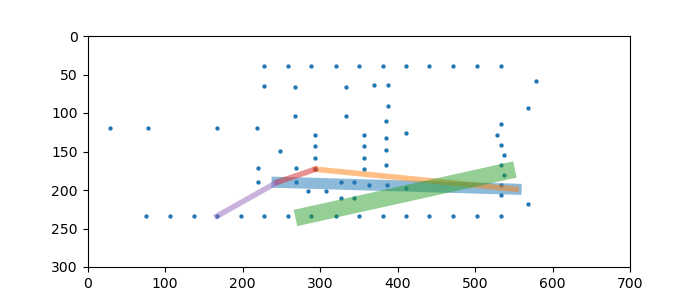
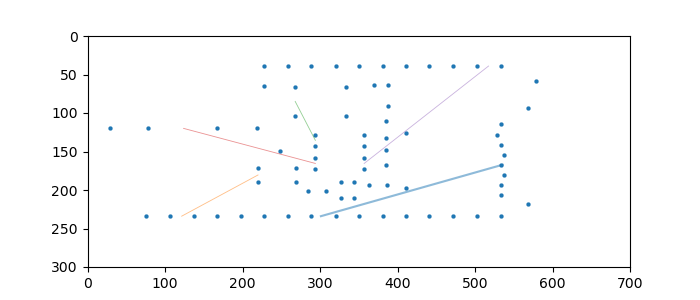
over:multipin_net

diff --git a/BusAllocator.py b/BusAllocator.py
@@ -18,8 +18,6 @@ class BusAllocator:
         self.NetList = grid_parameter.netList
         self.FootprintList = grid_parameter.footprint_list
         self.parameters = grid_parameter
-#        self.clearance = clearance
-#        self.trackwidth = trackwidth
         self.BusList = []
 
         
@@ -55,35 +53,52 @@ class BusAllocator:
         """
 
         MFPList=self.GenerateMultipadFPList()
-#        StartBusPins = []
-#        EndBusPins = []
-#        BusWidth = 0
         BusID = 0
+        with open('debug.txt', 'w') as file:
+            file.write('')
 
         for i in range(len(MFPList)):
             PadNet1 = self.NetsInFP(MFPList[i])
             for j in range(len(MFPList)-1-i):
                 StartBusPins_temp = []
                 EndBusPins_temp = []
+                StartID_temp = []
+                EndID_temp = []
                 BusWidth_temp = 0
                 count = 0
 
                 PadNet2 = self.NetsInFP(MFPList[i+j+1])
-#                for pad in MFPList[i].pads:
-#                    if pad.net in
 
-                for m in range(len(PadNet1) - 1):
+                with open('debug.txt', 'a') as file:
+                    file.write('({},{},{},{})'.format(MFPList[i].fpname, MFPList[i].position, MFPList[i+j+1].fpname, MFPList[i+j+1].position))
+
+                for m in range(len(PadNet1)):
                     net1 = PadNet1[m][1]
-                    for n in  range(len(PadNet2) - 1):
+                    for n in  range(len(PadNet2)):
                         net2 = PadNet2[n][1]
-                        if net1 == net2 :
+                        with open('debug.txt' ,'a') as file:
+                            file.write('({},{})'.format(self.parameters.id_to_name[net1],self.parameters.id_to_name[net2]))
+                        if (net1 == net2) & (net1 not in StartID_temp) & (net2 not in EndID_temp):
                             netclass = self.parameters.netid_to_class[net1]
-                            clearance_with_track = netclass.clearance_with_track
+                            clearance_with_track = netclass.clearance + netclass.track_width
+                            StartID_temp.append(net1)
+                            EndID_temp.append(net2)
                             StartBusPins_temp.append(PadNet1[m][0])
                             EndBusPins_temp.append(PadNet2[n][0])
                             BusWidth_temp += clearance_with_track
                             count +=1
+                                        
+                            break
+                with open('debug.txt' ,'a') as file:
+                            file.write('\n')
                 if count >= 2:
+                    with open('debug.txt' ,'a') as file:
+                        file.write('the same net:')
+                    for pin in StartBusPins_temp:
+                        with open('debug.txt' ,'a') as file:
+                            file.write('{} '.format(self.parameters.id_to_name[pin.netID]))
+                    with open('debug.txt' ,'a') as file:
+                        file.write('\n')
                     start_sum_x = 0
                     start_sum_y = 0
                     end_sum_x = 0
@@ -121,11 +136,14 @@ class Drawer():
         self.gridparameters = gridparameters
     
     def draw(self):
-        sizex = abs(self.gridparameters.dia_pos_1[0] - self.gridparameters.dia_pos_0[0]) * self.gridparameters.gridSize[0]
-        sizey = abs(self.gridparameters.dia_pos_1[1] - self.gridparameters.dia_pos_0[1]) * self.gridparameters.gridSize[1] 
+#        sizex = abs(self.gridparameters.dia_pos_1[0] - self.gridparameters.dia_pos_0[0]) * self.gridparameters.gridSize[0]
+#        sizey = abs(self.gridparameters.dia_pos_1[1] - self.gridparameters.dia_pos_0[1]) * self.gridparameters.gridSize[1]
+        #bench1 1200,650 bench2 700,300 bench4 500,500
+        sizex = 500
+        sizey = 500
         print(sizex,sizey)
-        fig,ax = plt.subplots(figsize = (5,5))
-        plt.axis((0,500,500,0)) #bench1 1200,650 bench2 700,300 bench4 500,500
+        fig,ax = plt.subplots(figsize = (sizex/100,sizey/100))
+        plt.axis((0,sizex,sizey,0)) 
         padx = []
         pady = []
         for fp in self.gridparameters.footprint_list:
@@ -141,8 +159,7 @@ class Drawer():
             plt.plot(busx,busy, linewidth = bus.BusWidth, alpha = 0.5)
 
 
-#        ax.axis('off')
-#        ax.plot([0,0], [0,8], color = 'black')
+
         plt.savefig('figs/bench4.png')
         plt.show()
 

diff --git a/GridParameters.py b/GridParameters.py
@@ -27,9 +27,10 @@ class Net:
         self.padList = []
 
 class Footprint:
-    def __init__(self,pads,position):
+    def __init__(self,pads,position,name):
         self.pads = pads
         self.position = position
+        self.fpname = name
 
 
 
@@ -142,7 +143,7 @@ class GridParameters:
                     board_pad = Pad(pad_pos, footprint.layer, pad_shape, pad_size, pad.type, None)
                     self.pad_obstacles.append(board_pad)
                 pad_list.append(board_pad)
-            fp = Footprint(pad_list,footprint.position)
+            fp = Footprint(pad_list,footprint.position, footprint.entryName)
             self.footprint_list.append(fp)
             
                 
@@ -153,7 +154,7 @@ class GridParameters:
         self.layers = layers_
         self.grLines = boundary_list
         self.netNum = len(net_list) - 1
-        self.netClassReal = project.netSetting.classes
+        self.netClassReal = project.netSetting.classes  #use it
         self.netClass = {}
         self.netid_to_class = {}
         for net_class in self.netClassReal:
@@ -162,14 +163,16 @@ class GridParameters:
                                                 self.netClassReal[net_class].microvia_drill,
                                                 self.netClassReal[net_class].clearance,
                                                 project.board.design_setting.rules.min_hole_clearance)
-        
+        self.id_to_name = {}
+        for net in net_list:
+            self.id_to_name[net.netID] = net.netName
        
         
         self.netList = net_list
         self.padclass_list = {} 
         for net in net_list:
             if net.netClass != None:
-                self.netid_to_class[net.netID] = self.netClass[net.netClass]
+                self.netid_to_class[net.netID] = self.netClassReal[net.netClass]
             else: continue
 
         board.to_file()
